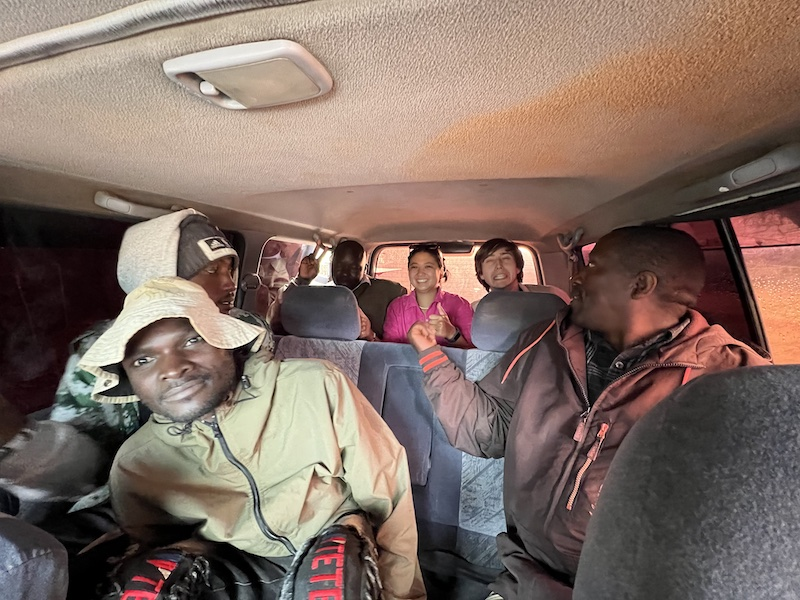
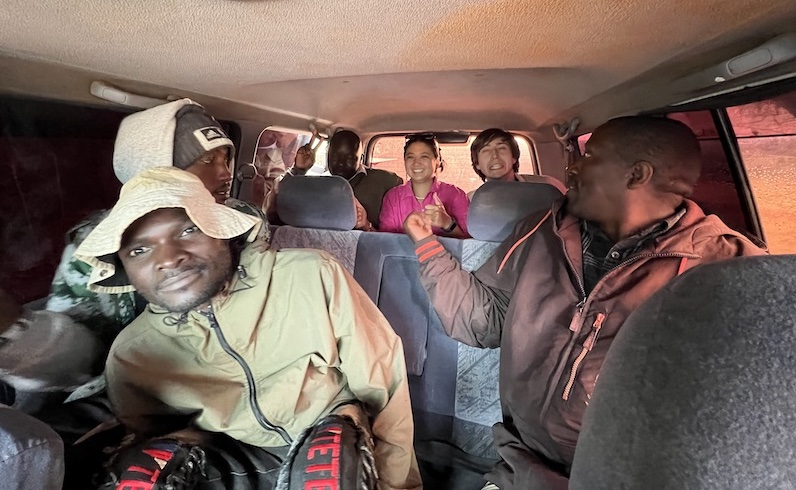
adjust intro and photo

diff --git a/app/components/Intro.tsx b/app/components/Intro.tsx
@@ -5,36 +5,38 @@ const Intro = () => {
     <div className="m-auto max-w-[1024px]">
       <h2 className="text-6xl">Hakuna Matatu</h2>
       <img className="m-auto mt-8 " src={hakunaMatatu} />
-      <div className="flex">
-        <div className="max-w-[500px]">
-          <p className="text-left text-lg">
-            …but this particular Toyota Prado was responsible for many of my
-            most unforgettable moments during my time in Kenya. At the most
-            basic level, it was the vehicle of transporting our group of
-            researchers from our research base to fieldwork on a daily basis,
-            but it was so much more. Through its windows, we’d see wildlife up
-            close - elephants, giraffes, baboons, hyrax, many within twenty five
-            meters. In its belly, we honed our Swahili, piecing together
-            whatever Swahili we learned into sentences that wouldn’t make sense
-            to anyone who hadn’t sat in this vehicle. Everyday, a new cast of
-            characters would ride with us to our destinations. We’d squeeze into
-            the vehicle haphazardly, with the first passengers squeezing through
-            the trunk of the vehicle to sit in the third row. Each day, a
-            different seating configuration developed, resulting in fresh
-            conversations and dynamics from where each person sat. The following
-            visualization documents where each person sat on each trip, and
-            aggregates the seating to visualize where each person most often
-            sat.
-          </p>
-        </div>
-        <div className="-mt-16 mr-8 bg-white p-4">
+      <div className="flex flex-wrap ">
+        <div className="-mt-16 ml-8 mr-4 bg-white p-2 sm:w-full md:max-w-[45%]">
           <img src="images/prado_inside.jpg" />
-          <video className="mt-4" autoPlay muted loop>
+          <video className="mt-2" autoPlay muted loop>
             <source src="images/prado_buffalo.mov" type="video/mp4" />
           </video>
-          <video className="mt-4" autoPlay muted loop>
+          <video className="mt-2" autoPlay muted loop>
             <source src="images/prado_plant_move.mov" type="video/mp4" />
           </video>
+        </div>
+        <div className=" p-4 text-left text-lg sm:w-full md:max-w-[45%] ">
+          <p className="mt-4 text-lg">
+            …but this particular Toyota Prado was home to many of my most
+            unforgettable memories in Kenya. It was of course the vehicle for
+            transporting us from our research base to fieldwork on a daily
+            basis, but it was also a lens into Kenya’s beautiful landscapes and
+            local culture. Through its windows, we saw wildlife up close -
+            elephants, giraffes, baboons, and hyraxes. During our drives, we
+            honed our Swahili, discussed differences in cultural values, and
+            joked our way through a variety of topics.
+          </p>
+          <p className="mt-4">
+            Everyday, a new cast of characters would jam into the Prado. Those
+            sitting in the third row would squeeze in first by either entering
+            through the trunk or hopping over the second row seats. Only then
+            could the second row folks file into place. With every new seating
+            arrangement, fresh conversations would sprout. The following
+            visualization shows where each person sat on each trip over a nine
+            day period. It also aggregates the frequency each rider sat in a
+            particular space to show where each rider spent most of their time
+            when riding in the Prado.
+          </p>
         </div>
       </div>
     </div>
